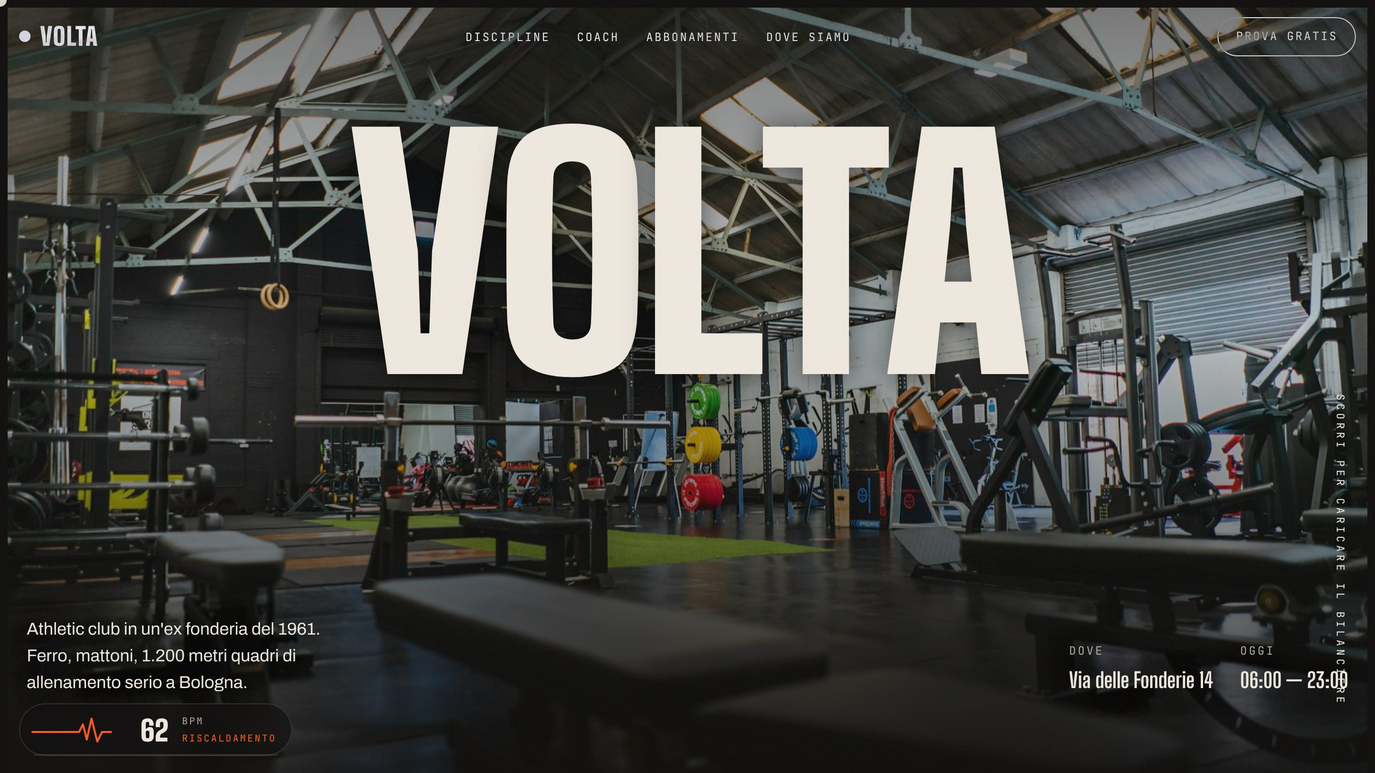
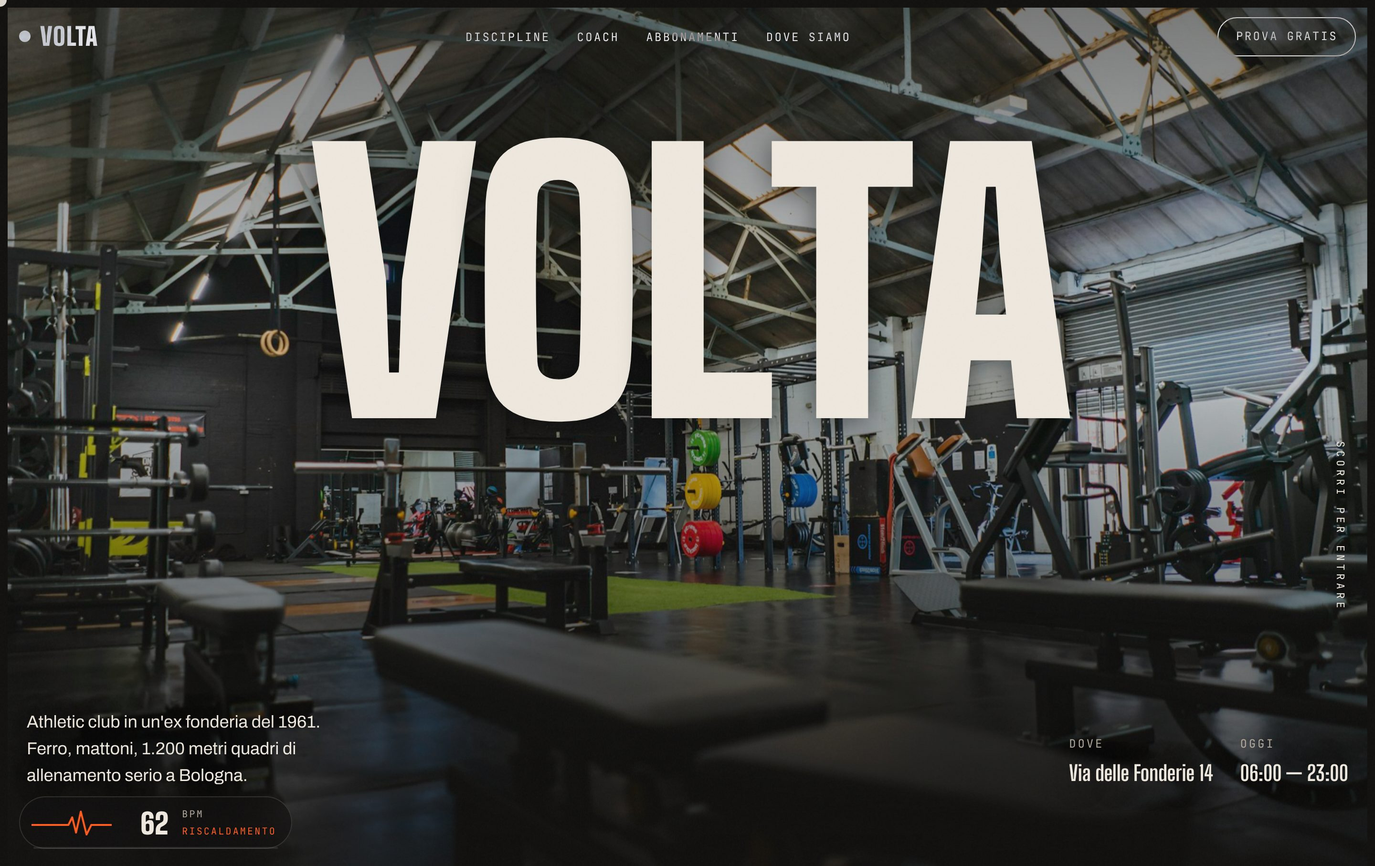
VOLTA: screenshot su misura per riquadro 16:9 e 4:3, senza bordi neri
Claude-Session: https://claude.ai/code/session_015pJTn34L3aMokc3LQmRK2t

diff --git a/index.html b/index.html
@@ -16,7 +16,7 @@
   <link href="https://fonts.googleapis.com/css2?family=DM+Mono:wght@400;500&family=DM+Sans:wght@400;500;600;700;800&family=Playfair+Display:ital,wght@1,500&display=swap"
     rel="stylesheet">
 
-  <link rel="stylesheet" href="style.css?v=20261105a">
+  <link rel="stylesheet" href="style.css?v=20261105b">
   <script src="script.js?v=20261104a" defer></script>
   <script src="hero-gallery.js?v=20261104f" defer></script>
   <script src="interactions.js?v=20261104c" defer></script>
@@ -92,7 +92,7 @@
       <div class="gh-floats" aria-hidden="true">
 
         <div class="gh-float f1" data-depth="26">
-          <img src="images/volta-gym.jpg" alt="">
+          <img src="images/volta-gym.jpg?v=2" alt="">
         </div>
 
         <div class="gh-float f2" data-depth="12">
@@ -279,7 +279,10 @@
               <span class="pd-url">agneseb19.github.io/volta-gym</span>
             </div>
             <div class="pd-shot-img">
-              <img src="images/volta-gym.jpg" alt="VOLTA Athletic Club — versione desktop" loading="lazy">
+              <picture>
+                <source media="(max-width: 760px)" srcset="images/volta-gym-43.jpg">
+                <img src="images/volta-gym.jpg?v=2" alt="VOLTA Athletic Club — versione desktop" loading="lazy">
+              </picture>
             </div>
           </figure>
 

diff --git a/style.css b/style.css
@@ -5083,19 +5083,9 @@ html.has-cursor .gh-card-open {
     display: none;
 }
 
-/* VOLTA: lo screenshot si vede intero, senza ritagliare i lati
-   (il testo della hero sta vicino ai bordi). Lo sfondo scuro riempie
-   lo spazio che resta quando il riquadro è più alto dell'immagine. */
+/* Screenshot con <picture>: il browser sceglie la versione giusta
+   (16:9 su schermi larghi, 4:3 su schermi stretti) */
 
-.pd-item[data-project="volta-gym"] .pd-shot-img {
-    background: #0e0d0c;
-}
-
-.pd-item[data-project="volta-gym"] .pd-shot-img img {
-    height: 100%;
-
-    object-fit: contain;
-    object-position: center;
-
-    transform: none !important;
+.pd-shot-img picture {
+    display: contents;
 }
